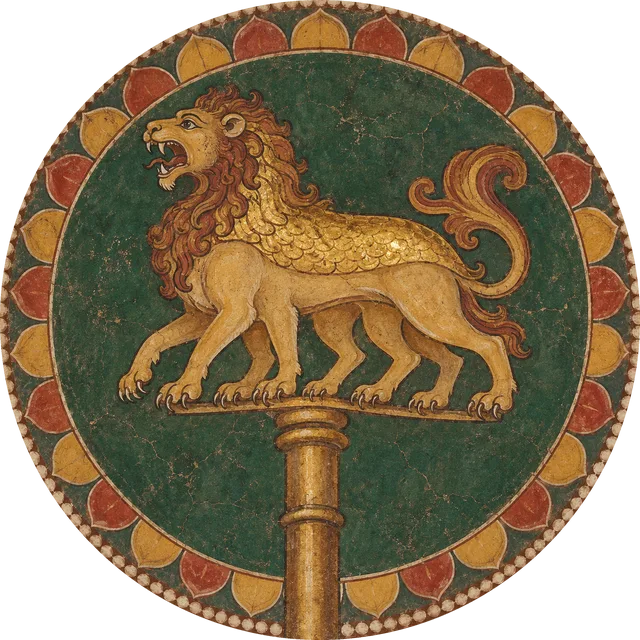
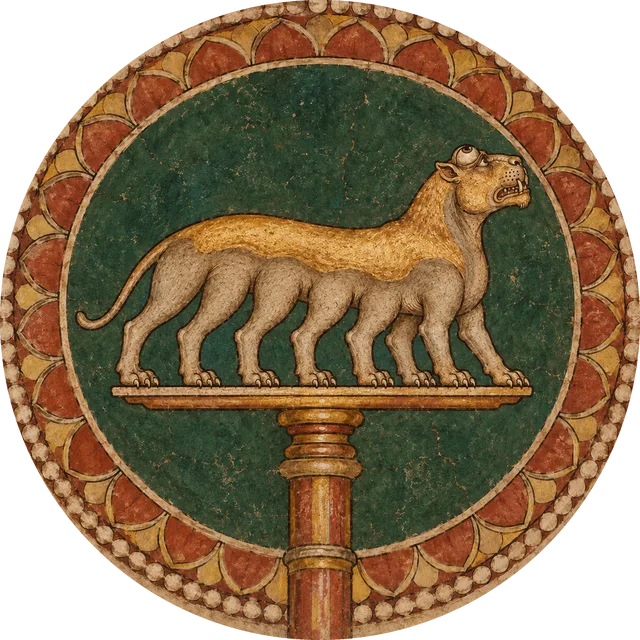
Lanchhana: repaint Nakula's sarabha from the epic's description (eight legs, eyes on top), cite Santi Parva
Claude-Session: https://claude.ai/code/session_01DgRK3tMrch3BCqmBE3ynVe

diff --git a/lanchhana/data.js b/lanchhana/data.js
@@ -105,6 +105,10 @@ window.LR={
 "Mahābhārata, Droṇa Parva, Section XXIII, tr. K. M. Ganguli (vulgate) — sacred-texts.com",
 "https://www.sacred-texts.com/hin/m07/m07023.htm"
 ],
+"ganSarabha": [
+"Mahābhārata, Śānti Parva, Section CXVII, tr. K. M. Ganguli — sacred-texts.com",
+"https://sacred-texts.com/hin/m12/m12a116.htm"
+],
 "ganda": [
 "Gandabherunda — Wikipedia",
 "https://en.wikipedia.org/wiki/Gandabherunda"
@@ -865,14 +869,14 @@ window.LR={
 "san": "",
 "ref": "Vulgate, Droṇa Parva 23 (Ganguli); not in the critical edition",
 "quote": "A tall and fierce standard of Nakula, placed on his car bearing the device of a Sarabha with its back made of gold.",
-"t": "Ganguli's translation, made from the vulgate text, describes this standard in Droṇa Parva section 23.{gan7023} The critical edition does not have the passage: its chapter 7.22 describes the Pāṇḍava warriors' horses and names no such device.{mbs7022}{mbsIndex}",
+"t": "Ganguli's translation, made from the vulgate text, describes this standard in Droṇa Parva section 23.{gan7023} The critical edition does not have the passage: its chapter 7.22 describes the Pāṇḍava warriors' horses and names no such device.{mbs7022}{mbsIndex} The standard names only a śarabha with a golden back. The painting follows the epic's own description of the śarabha in the Śānti Parva: a beast that kills lions, with eight legs and eyes on the top of its head.{ganSarabha}",
 "warn": "Vulgate only, not in the critical edition",
 "tab": "itihasa",
 "img": "epic/nakula.webp",
 "motifs": [
 "mythic"
 ],
-"prompt": "Create an image. A war standard whose device is a śarabha, the mythical beast of Indian legend stronger than a lion: a powerful lion-like body with eight legs, its back made of gold. The device is a three-dimensional figure mounted on the very top of a tall flagstaff, seen against the sky — not painted on cloth, not a flag. Only the upper flagstaff, no chariot, no people. No finial, no parasol, no tassels. Early Indian mural painting in the manner of the Ajanta cave murals: flat mineral pigments (red ochre, yellow ochre, terre-verte green, lapis blue, lamp-black, white), dark brown brush outlines of varying weight, soft darker shading along the edges of forms, small white highlights, aged plaster texture with fine cracks. Circular medallion: the subject centred on a deep green field inside a ring of red and yellow lotus petals and a border of white pearls; plain background outside the medallion. Square 1:1. No text, no letters, no people, no modern elements."
+"prompt": "Create an image. A war standard whose device is a śarabha as the Mahābhārata describes it: a fearsome forest beast, stronger than a lion, with EIGHT legs and with its eyes set on the top of its head. Show it in side view standing on the flat top of the flagstaff, with all eight legs clearly separate and countable: four pairs in a row under a long, low, muscular body. It is NOT a lion: no mane, no lion face. A heavy-jawed, short-haired head with the two eyes placed high on top of the skull, looking upward. Its back is made of gold. The device is a three-dimensional figure mounted on the very top of a tall flagstaff, seen against the sky — not painted on cloth, not a flag. Only the upper flagstaff, no chariot, no people. No wings, no horns, no finial, no parasol, no tassels. Early Indian mural painting in the manner of the Ajanta cave murals: flat mineral pigments (red ochre, yellow ochre, terre-verte green, lapis blue, lamp-black, white), dark brown brush outlines of varying weight, soft darker shading along the edges of forms, small white highlights, aged plaster texture with fine cracks. Circular medallion: the subject centred on a deep green field inside a ring of red and yellow lotus petals and a border of white pearls; plain background outside the medallion. Square 1:1. No text, no letters, no people, no modern elements.\n\nFollow-up: keep everything the same, but the beast must have exactly EIGHT legs and EIGHT paws resting on the staff-top, all eight clearly visible and evenly spaced, none hidden behind another. Make the head a little more fearsome."
 },
 {
 "id": "sahadeva",

diff --git a/lanchhana/register.html b/lanchhana/register.html
@@ -280,7 +280,7 @@ const srcTitle = k => SRC[k][0];
 function flagSvg(f){ return `<figure class="flag" title="${esc(f.cap)}"><svg viewBox="0 0 60 40" aria-hidden="true"><line x1="1" y1="0" x2="1" y2="40" stroke="#5a4632" stroke-width="2"/>${f.svg}</svg><figcaption><span class="conf ${f.conf}">flag · ${f.conf}</span></figcaption></figure>`; }
 function art(c, big){
   if (c.pending) return `<div class="pending"><div><b>${esc(c.e)}</b>Painting in progress</div></div>`;
-  return `<img class="medal" ${big?"":'loading="lazy"'} src="${c.img}?v=6" width="240" height="240" alt="${esc(c.e)}, interpretive painting">`;
+  return `<img class="medal" ${big?"":'loading="lazy"'} src="${c.img}?v=7" width="240" height="240" alt="${esc(c.e)}, interpretive painting">`;
 }
 function sub(c){ return c.tab==="itihasa" ? c.who : c.d; }
 
@@ -332,7 +332,7 @@ renderAll();
     const list=C.filter(c=>c.motifs.includes(k)).sort((a,b)=>order.indexOf(a.tab)-order.indexOf(b.tab));
     const counts=order.map(t=>[t,list.filter(c=>c.tab===t).length]).filter(x=>x[1]);
     return `<section class="motif" id="motif-${k}"><div><h3>${esc(label)}</h3><p class="count"><b>${list.length}</b> entries · ${counts.map(([t,n])=>`${n} ${tabShort[t].toLowerCase()}`).join(" · ")}</p></div>
-      <div class="strip">${list.map(c=>`<button class="mini t-${c.tab}" type="button" data-id="${c.id}">${c.pending?`<div class="ph"></div>`:`<img src="${c.img}?v=6" alt="" loading="lazy">`}<b>${esc(c.tab==="itihasa"?c.who:c.n.replace(/\s*\(.*?\)/,""))}</b><span>${tabShort[c.tab]}</span></button>`).join("")}</div></section>`;
+      <div class="strip">${list.map(c=>`<button class="mini t-${c.tab}" type="button" data-id="${c.id}">${c.pending?`<div class="ph"></div>`:`<img src="${c.img}?v=7" alt="" loading="lazy">`}<b>${esc(c.tab==="itihasa"?c.who:c.n.replace(/\s*\(.*?\)/,""))}</b><span>${tabShort[c.tab]}</span></button>`).join("")}</div></section>`;
   }).join("");
   Object.entries(MOTIFS).forEach(([k,label])=>{ const a=document.createElement("a"); a.className="chip"; a.href="#motif-"+k; a.textContent=label.split(/[ ,(]/)[0]; box.appendChild(a); });
 })();

diff --git a/lanchhana/index.html b/lanchhana/index.html
@@ -184,7 +184,7 @@ const {SRC, MOTIFS, cards:C} = window.LR;
 const BY=Object.fromEntries(C.map(c=>[c.id,c]));
 const esc=s=>String(s).replace(/&/g,"&amp;").replace(/</g,"&lt;").replace(/"/g,"&quot;");
 const name=c=>c.tab==="itihasa"?c.who:c.n.replace(/\s*\(.*?\)/,"");
-const img=c=>`${c.img}?v=6`;
+const img=c=>`${c.img}?v=7`;
 
 /* tray: centre plus a ring of six */
 const trayIds=["arjuna","gupta","chola","bhishma","ahom","pala","vijayanagara"];

diff --git a/lanchhana/tools/build_data.py b/lanchhana/tools/build_data.py
@@ -11,6 +11,7 @@ for o in outs.values(): S.update(o.get('sourcesNew',{}))
 pv=json.load(open(f'{SC}/pandava.json'))
 S.update({'mbs7022':pv['sourceUrls']['mbs7022'],'gan7023':["Mahābhārata, Droṇa Parva, Section XXIII, tr. K. M. Ganguli (vulgate) — sacred-texts.com","https://www.sacred-texts.com/hin/m07/m07023.htm"],
  'mbsIndex':["The Mahābhārata in Sanskrit: source note (BORI critical edition, Tokunaga/Smith) — sacred-texts.com","https://sacred-texts.com/hin/mbs/index.htm"],
+ 'ganSarabha':["Mahābhārata, Śānti Parva, Section CXVII, tr. K. M. Ganguli — sacred-texts.com","https://sacred-texts.com/hin/m12/m12a116.htm"],
  'sampathMysore':["Vikram Sampath, Splendours of Royal Mysore: The Untold Story of the Wodeyars (Rupa, 2008) — Internet Archive","https://archive.org/details/splendoursofroya0000vikr"]})
 # prompts
 modern=json.load(open(f'{ROOT}/prompts/modern.json'))
@@ -80,6 +81,10 @@ for idx,(i,who,lab,key) in enumerate(VUL):
     new.append(dict(id=i,no=str(18+idx),n='Pāṇḍava',who=who,e=lab,k='vulgate',san='',ref='Vulgate, Droṇa Parva 23 (Ganguli); not in the critical edition',
       quote=gq(key),t=f"Ganguli's translation, made from the vulgate text, describes this standard in Droṇa Parva section 23.{{gan7023}} The critical edition does not have the passage: its chapter 7.22 describes the Pāṇḍava warriors' horses and names no such device.{{mbs7022}}{{mbsIndex}}",warn='Vulgate only, not in the critical edition'))
 new[-1]['t']+=" Ganguli renders the bird as a peacock; the vulgate Sanskrit has not been checked here.{gan7023}"
+for e in new:
+    if e['id']=='nakula':
+        e['t']+=" The standard names only a śarabha with a golden back. The painting follows the epic's own description of the śarabha in the Śānti Parva: a beast that kills lions, with eight legs and eyes on the top of its head.{ganSarabha}"
+
 for e in new:
     e.update(tab='itihasa',img=f"epic/{e['id']}.webp",motifs=motifs(e['id']))
     if not __import__('os').path.exists(f"{ROOT}/epic/{e['id']}.webp"): e['pending']=True
